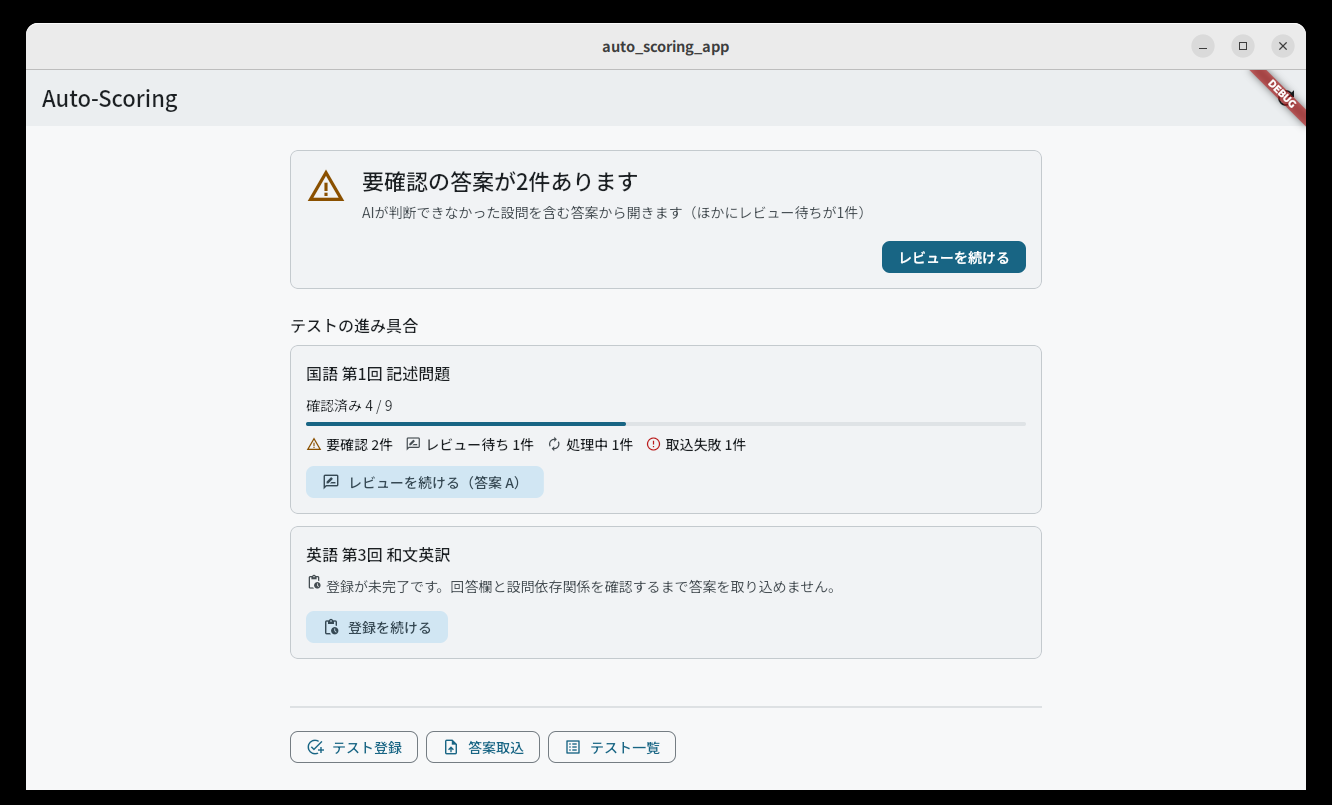
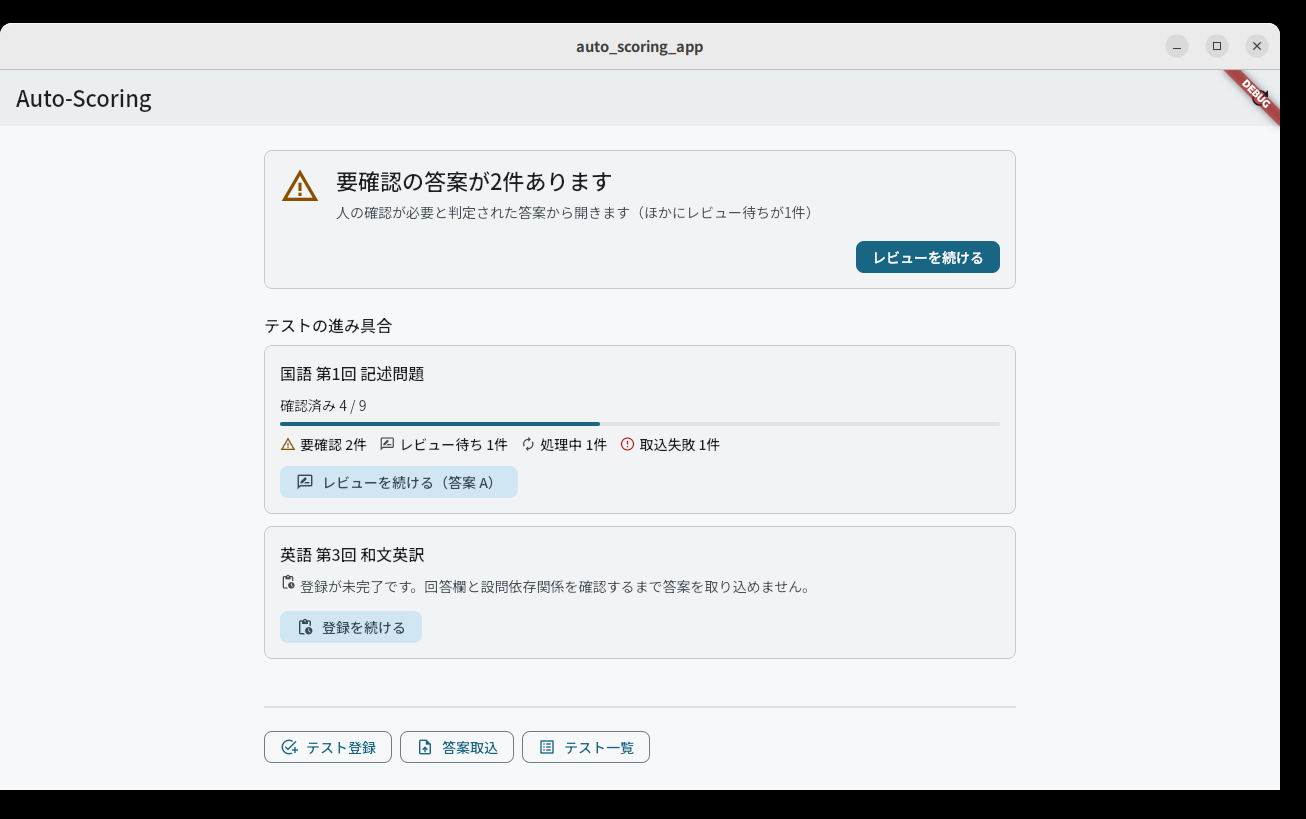
[Issue #68] ホーム画面が「採点済み」を答案のstateから断定しないようにする
Codexレビュー指摘 (P2)。実コードで裏を取った。

`SubmissionState` の `UNPROCESSED -> AI_PROCESSING -> AI_PROCESSED` が表しているのは
**取込時の画像前処理と回答欄抽出まで**で、OCR/AI採点は `AI_PROCESSED` の先から
始まる (adapters/submission_intake.py の状態遷移コメント)。取込エンドポイントは
採点ジョブを起票せずに返し、採点ジョブを作るのは
`POST /submissions/{id}/jobs` だけである。

にもかかわらずホームは `ai_processed` の答案に「AIの採点は終わっています」と
出していた。取込直後の通常の答案を開くと未採点なので、画面が嘘をついていた。
同じ前提に立っていた「次の答案を取り込むと、AIの採点が始まります」、
`needs_review` の「AIが判断できなかった設問」、`enum` の doc comment、
`docs/home-dashboard.md` も揃えた。

**採点済みかどうかを `listJobs` から導出する案は採らなかった。** 理由は2つ。
(1) あれは答案1件ずつのAPIで、テスト8件ぶんの答案すべてに引くと、上限を
設けて抑えたはずのリクエスト数が答案の数まで膨らむ。(2) そこまで払っても今は
何も分からない -- アプリは `POST /submissions/{id}/jobs` を一度も呼んでおらず、
どの答案もジョブ0件が返るだけである。採点の起動は別Issueなので、この画面は
「知らないことを断定しない」ところまでを引き受ける。判断は
`docs/home-dashboard.md` §3.1 に残した。

`app/test/home_dashboard_test.dart` の「レビュー待ちを『採点済み』と断定しない」
がこれを固定する。説明文が変わるのでスクリーンショットも撮り直した。

Claude-Session: https://claude.ai/code/session_015Z5M4MJz8u4grqBKG3RUaW

diff --git a/app/lib/features/home/home_dashboard.dart b/app/lib/features/home/home_dashboard.dart
@@ -5,10 +5,16 @@
 /// はこのアプリのUIで最も意見の入る部分なので、画面を立ち上げずに
 /// `home_dashboard_test.dart` から直接読める形にしてある。
 ///
-/// 入力は `listTestRegistrations` と `listSubmissions` の2つだけ。ジョブの
-/// 進捗も答案の `state` から読む (`ai_processing` は「そのジョブが動いて
-/// いる」ことそのもの) -- `listJobs` は答案1件ずつのAPIなので、ホームで
-/// 呼ぶと答案の数だけリクエストが出る。
+/// 入力は `listTestRegistrations` と `listSubmissions` の2つだけ。処理の
+/// 進み具合も答案の `state` から読む -- `listJobs` は答案1件ずつのAPIなので、
+/// ホームで呼ぶと答案の数だけリクエストが出る。
+///
+/// **`state` から読めないことは書かない。** §25 の状態機械で
+/// `UNPROCESSED -> AI_PROCESSING -> AI_PROCESSED` が表しているのは取込時の
+/// 画像前処理と回答欄抽出までで、OCR/AI採点は `AI_PROCESSED` の先から始まる
+/// (`backend/.../adapters/submission_intake.py`)。したがって答案の `state`
+/// だけを見て「採点が終わった」とは言えない。この画面の文言はそこを跨がない
+/// (`docs/home-dashboard.md` §3)。
 library;
 
 import 'package:flutter/material.dart';
@@ -28,14 +34,18 @@ import 'package:auto_scoring_app/core/design/app_status_tone.dart';
 /// いる答案で、色を割く価値があるのはこちらだけである
 /// (docs/design-tokens.md §3.1)。
 enum HomeWorkBucket {
-  /// `needs_review` -- 低Confidence・AI失敗など、AIが人間に投げ返したもの。
+  /// `needs_review` -- 取込時に回答欄を確定できなかった、確認していない設問が
+  /// 残っているなど、**人が見ないと先へ進めない**もの。理由そのものは
+  /// `review_reason` にあり、答案取込画面が1行ずつ出す。
   needsReview(
     label: '要確認',
     icon: Icons.warning_amber,
     tone: AppStatusTone.attention,
   ),
 
-  /// `ai_processed` -- AIは通ったが、人間がまだ確認していないもの。
+  /// `ai_processed` -- 取込と回答欄の抽出まで終わり、人がまだ確認していない
+  /// もの。**「採点済み」ではない**（この先が採点で、そこは `state` からは
+  /// 読めない）。
   awaitingReview(
     label: 'レビュー待ち',
     icon: Icons.rate_review_outlined,
@@ -297,9 +307,9 @@ class HomeDashboard {
             ? '要確認の答案が${count(HomeWorkBucket.needsReview)}件あります'
             : 'レビュー待ちの答案が$awaiting件あります',
         detail: isFlagged
-            ? 'AIが判断できなかった設問を含む答案から開きます'
+            ? '人の確認が必要と判定された答案から開きます'
                   '${awaiting > 0 ? '（ほかにレビュー待ちが$awaiting件）' : ''}'
-            : 'AIの採点は終わっています。古い順に確認していきます',
+            : '取込と回答欄の抽出まで終わっています。古い順に開いていきます',
         actionLabel: 'レビューを続ける',
         route: AppRoutes.pdfReview(
           testId: test.test.id,
@@ -334,7 +344,7 @@ class HomeDashboard {
       return HomeNextAction(
         icon: HomeWorkBucket.processing.icon,
         tone: HomeWorkBucket.processing.tone,
-        headline: 'AIが${count(HomeWorkBucket.processing)}件の答案を処理しています',
+        headline: '処理中の答案が${count(HomeWorkBucket.processing)}件あります',
         detail: '終わった答案はここにレビュー待ちとして並びます',
         // 行き先が無い唯一の分岐。押せるものが「更新」しか無い状態を、
         // 押せないボタンではなく押せるボタンで表す。
@@ -346,7 +356,7 @@ class HomeDashboard {
         icon: Icons.upload_file,
         tone: AppStatusTone.success,
         headline: 'レビュー待ちの答案はありません',
-        detail: '次の答案を取り込むと、AIの採点が始まります',
+        detail: '次の答案を取り込むと、回答欄の抽出まで自動で進みます',
         actionLabel: '答案を取り込む',
         route: AppRoutes.answerIntake,
       );

diff --git a/app/test/home_dashboard_test.dart b/app/test/home_dashboard_test.dart
@@ -271,6 +271,18 @@ void main() {
       expect(dashboard.nextAction.detail, isNot(contains('ほかに')));
     });
 
+    test('レビュー待ちを「採点済み」と断定しない', () {
+      // `ai_processed` は取込時の画像前処理・回答欄抽出まで終わった状態で、
+      // OCR/AI採点はその先から始まる (backend の submission_intake.py)。
+      // 答案の `state` だけでは採点が終わったかどうかは分からない。
+      final test = buildTest(id: 't1');
+      final dashboard = build({
+        test: [buildSubmission(id: 's1', testId: 't1', state: 'ai_processed')],
+      });
+
+      expect(dashboard.nextAction.detail, isNot(contains('採点')));
+    });
+
     test('要確認が無くレビュー待ちだけならそちらを開く', () {
       final test = buildTest(id: 't1');
       final dashboard = build({

diff --git a/app/test/home_page_test.dart b/app/test/home_page_test.dart
@@ -214,7 +214,7 @@ void main() {
 
     // 画面はそのまま。数え直しただけ。
     expect(loads, 2);
-    expect(find.text('AIが1件の答案を処理しています'), findsOneWidget);
+    expect(find.text('処理中の答案が1件あります'), findsOneWidget);
   });
 
   testWidgets('載せきれなかったテストの件数を隠さない', (tester) async {

diff --git a/docs/home-dashboard.md b/docs/home-dashboard.md
@@ -63,7 +63,7 @@ docstring 自身が `Confirms the app boots and can reach the (stubbed) backend`
 2. **レビュー待ちの答案**（`ai_processed`）→ 同上
 3. **取込に失敗した答案**（`error`）→ 答案取込画面へ
 4. **登録が途中のテスト**（`draft`）→ そのテスト設定画面へ
-5. **AI処理中**（`unprocessed` / `ai_processing`）→ 行き先なし。「更新」だけ
+5. **処理中**（`unprocessed` / `ai_processing`）→ 行き先なし。「更新」だけ
 6. テストはあるが片付いている → 答案取込画面へ
 7. テストが1件も無い → テスト登録画面へ
 
@@ -127,11 +127,35 @@ docstring 自身が `Confirms the app boots and can reach the (stubbed) backend`
 | `done`           | `reviewed`・`exported`         | 確認済み     | `success`   |
 
 - **`needs_review` と `ai_processed` を分けている。** どちらも人間の作業待ちだが、
-  `needs_review` はAIが「自分では決められなかった」と言っている答案で、
-  色を割く価値があるのはこちらだけである（[design-tokens.md](./design-tokens.md)
-  §3.1「彩度の高い色は人間が見ないと決められないためだけに取っておく」）。
+  `needs_review` は「人が見ないと先へ進めない」と判定済みの答案（取込時に回答欄を
+  確定できなかった、確認していない設問が残っている、など）で、色を割く価値がある
+  のはこちらだけである（[design-tokens.md](./design-tokens.md) §3.1
+  「彩度の高い色は人間が見ないと決められないためだけに取っておく」）。
 - **知らない状態は `processing` に倒す。** サイドカーが先に新しい状態を覚えた
   場合、それを `done` に数えると進捗バーが「終わった」と嘘をつく。
+
+### 3.1 `ai_processed` は「採点済み」ではない
+
+`SubmissionState` の `UNPROCESSED -> AI_PROCESSING -> AI_PROCESSED` が表しているのは
+**取込時の画像前処理と回答欄抽出まで**で、OCR/AI採点は `AI_PROCESSED` の先から始まる
+（`backend/src/auto_scoring/adapters/submission_intake.py` の状態遷移コメント）。
+取込エンドポイント `POST /tests/{test_id}/submissions` は採点ジョブを起票せずに返し、
+採点ジョブを作るのは `POST /submissions/{submission_id}/jobs` だけである。
+
+したがって **答案の `state` だけを見て「採点が終わった」とは言えない。** ホームの
+文言はこの線を跨がない。`awaitingReview` のラベルは「レビュー待ち」（人の作業待ち
+であることは `state` から言える）で、説明文は「取込と回答欄の抽出まで終わって
+います」までしか言わない。`app/test/home_dashboard_test.dart` の
+`レビュー待ちを「採点済み」と断定しない` がこれを固定する。
+
+**採点済みかどうかを本当に知るには `GET /submissions/{id}/jobs` が要るが、ホームでは
+引かない。** 理由は2つある。(1) あれは答案1件ずつのAPIなので、テスト8件ぶんの答案
+すべてに引くと §5 で抑えたはずのリクエスト数が答案の数まで膨らむ。(2) そこまで
+払っても今は何も分からない。アプリは採点ジョブを作る `POST /submissions/{id}/jobs`
+を一度も呼んでおらず（`sidecar_api_client.dart` にラッパが無い）、どの答案もジョブ
+0件が返るだけである。**採点の起動そのものは別Issue**で、この画面は「知らないことを
+断定しない」ところまでを引き受ける。
+
 - 答案取込画面・添削レビュー画面は7状態を1行ずつ見せるので、あちらのラベル表
   とは**共通化していない**。ホームは件数を数える画面で、単位が違う
   （[design-tokens.md](./design-tokens.md) §6 の方針どおり）。
@@ -143,11 +167,13 @@ Issue #68 の制約は「既存APIで賄うこと」。使っているのは2つ
 - `GET /test-registrations`（`listTestRegistrations`）— `draft` を含む全テスト
 - `GET /tests/{id}/submissions`（`listSubmissions`）— そのテストの答案と `state`
 
-**ジョブの進捗も答案の `state` から読んでいる。** `ai_processing` は「その答案の
-ジョブが動いている」ことそのものなので、`GET /submissions/{id}/jobs`
+**処理の進み具合も答案の `state` から読んでいる。** `GET /submissions/{id}/jobs`
 （`listJobs`）は呼ばない。あれは答案1件ずつのAPIで、ホームで使うと答案の数だけ
 リクエストが出る。ジョブ単位の失敗理由が要るのは添削レビュー画面であって、
 ホームではない。
+
+その代わり、**`state` から読めないことは書かない**という制約を受け入れている。
+どこまでが `state` で言えてどこからが言えないのかは §3.1。
 
 ## 5. 1 + N リクエストと、その上限
 
